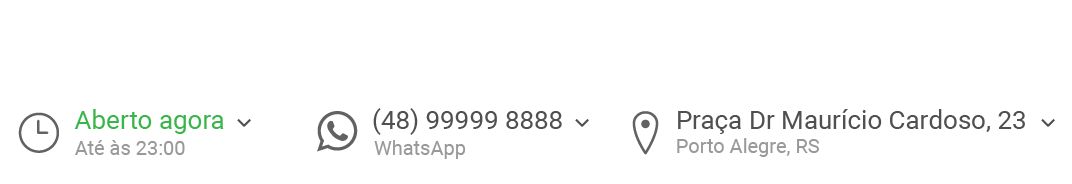
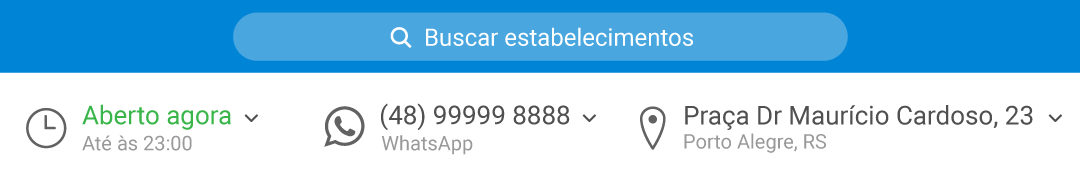
Versão com navbar azul e barra de pesquisa

diff --git a/index.html b/index.html
@@ -45,6 +45,7 @@
         left: 0;
         right: 0;
         background-color: #4B4B4B;
+        background-color: #0084d6;
       }
       .navbar img {
           height: 92px;
@@ -71,7 +72,7 @@
 <div class="navbar">
   <div class="top-navbar"></div>
   <img src="./new-hubt-test/navbar-left.png"/>
-  <img style="margin-top: -2px;" src="./new-hubt-test/navbar-center.png"/>
+  <img src="./new-hubt-test/navbar-center.png"/>
   <img src="./new-hubt-test/navbar-right.png"/>
 </div>
 <img class="main-img" src="new-hubt-test/layout1.jpg"/>
